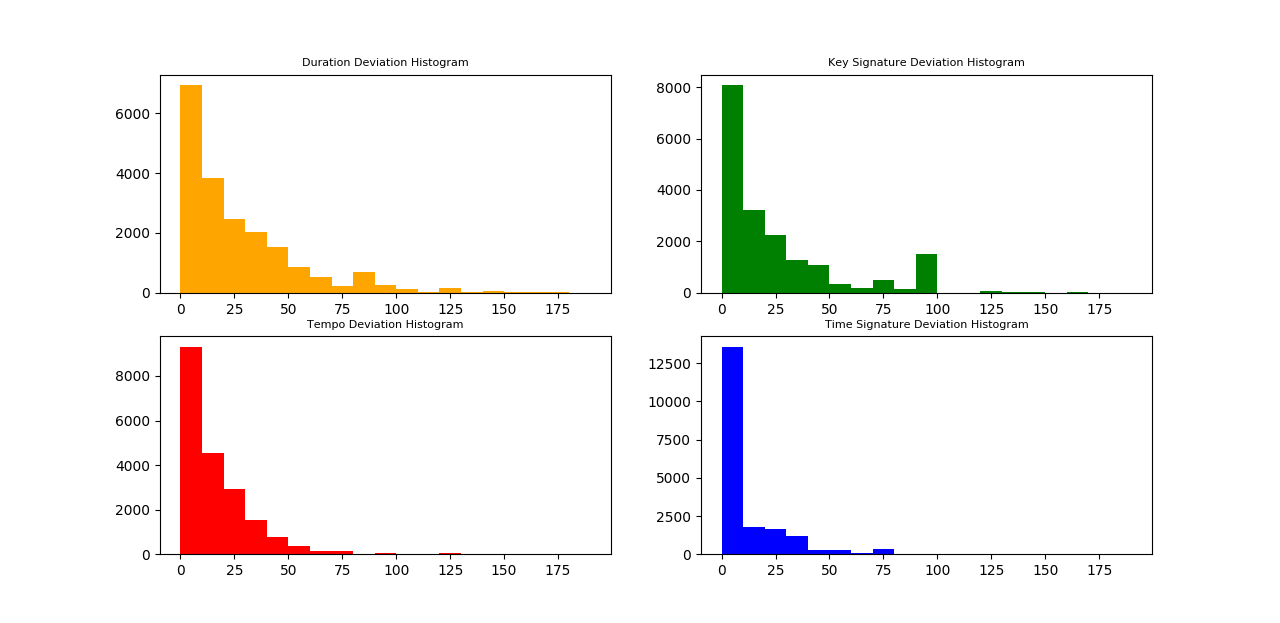
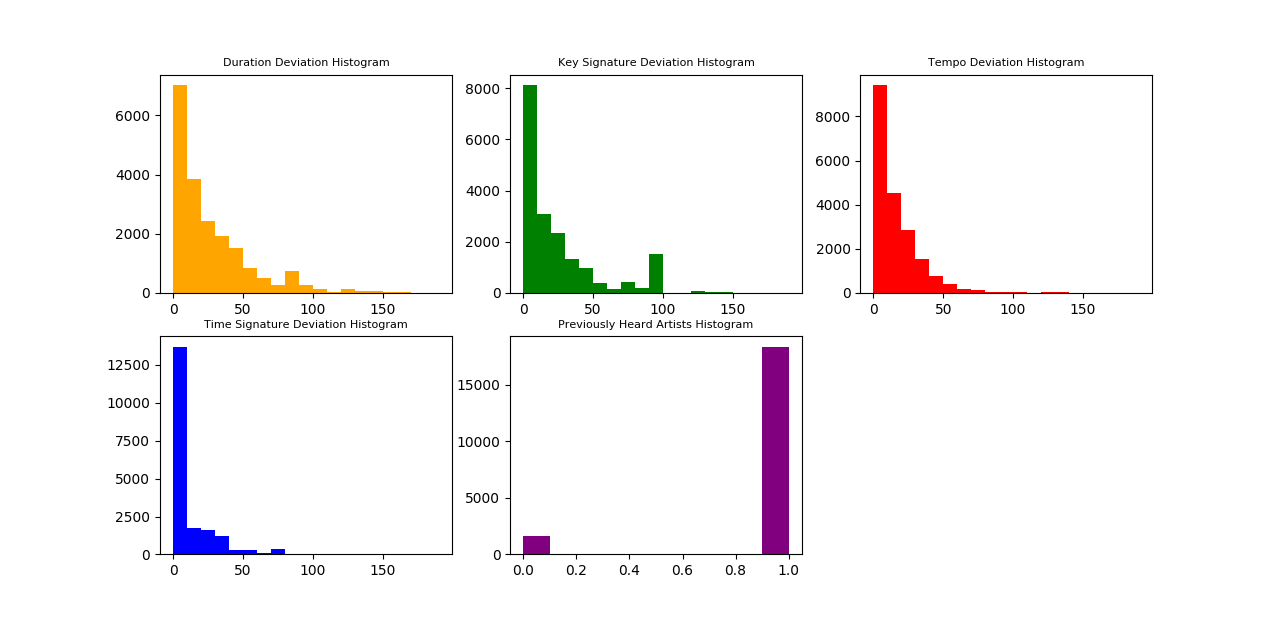
updated cf

diff --git a/code/collaborative_filtering.py b/code/collaborative_filtering.py
@@ -225,7 +225,7 @@ avg_tempo_array = []
 avg_time_array = []
 num_of_common_artists = []
 
-for iter in range(1000):
+for iter in range(500):
     my_user_id = random.choice(list(user_dict))
     # print (user_id)
     my_user_profile = make_user_profile(my_user_id, user_dict, song_dict)
@@ -241,40 +241,36 @@ for iter in range(1000):
     avg_time_array.append(100.0 *abs(my_user_profile[3] - bhai_user_profile[3])/(my_user_profile[3] + + 10e-4))
     
     if iter % 100 == 0:
-        print (iter)
-        
+        print (iter)        
 
+plt.subplots_adjust(hspace=0.5)
 plt.subplot(231)
-plt.title('Duration Deviation Histogram', size=8)
+plt.xlabel('% Dev. of Recommended Song from Avg. User-Profile', size=6)
+plt.ylabel('# of test samples')
+plt.title('Song Duration', size=6)
 plt.hist(avg_dur_array, bins=[10*i for i in range(0,20)], facecolor ="orange")
 
 plt.subplot(232)
-plt.title('Key Signature Deviation Histogram', size=8)
+plt.xlabel('% Dev. of Recommended Song from Avg. User-Profile', size=6)
+plt.ylabel('# of test samples')
+plt.title('Song Key Signature', size=6)
 plt.hist(avg_key_array, bins=[10*i for i in range(0,20)], facecolor ="green")
 
 plt.subplot(233)
-plt.title('Tempo Deviation Histogram', size=8)
+plt.xlabel('% Dev. of Recommended Song from Avg. User-Profile', size=6)
+plt.ylabel('# of test samples')
+plt.title('Song Tempo', size=6)
 plt.hist(avg_tempo_array, bins=[10*i for i in range(0,20)], facecolor ="red")
 
 plt.subplot(234)
-plt.title('Time Signature Deviation Histogram', size=8)
+plt.xlabel('% Dev. of Recommended Song from Avg. User-Profile', size=6)
+plt.ylabel('# of test samples')
+plt.title('Song Time Signature', size=6)
 plt.hist(avg_time_array, bins=[10*i for i in range(0,20)], facecolor ="blue")
 
 plt.subplot(235)
-plt.title('Number of Common Artists between user and his most similar user', size=8)
+plt.title('Common artists heard by similar users', size=6)
+plt.xlabel('% of Common Artists between user and most similar user', size=6)
+plt.ylabel('# of test samples')
 plt.hist(num_of_common_artists, facecolor ="purple")
 plt.show()
-  
-
-# my_user_profile = make_user_profile('8305c896f42308824da7d4386f4b9ee584281412', user_dict, song_dict)
-# 
-# bhai_user_profile = make_user_profile(top10[0][0], user_dict, song_dict)
-# 
-# num_of_common_artists = len(set(my_user_profile[4]).intersection(bhai_user_profile[4]))
-# 
-# print(100.0* num_of_common_artists/len(my_user_profile[4]))
-# print(100.0 *abs(my_user_profile[0] - bhai_user_profile[0])/my_user_profile[0])
-# print(100.0 *abs(my_user_profile[1] - bhai_user_profile[1])/my_user_profile[1])
-# print(100.0 *abs(my_user_profile[2] - bhai_user_profile[2])/my_user_profile[2])
-# print(100.0 *abs(my_user_profile[3] - bhai_user_profile[3])/my_user_profile[3])
-
